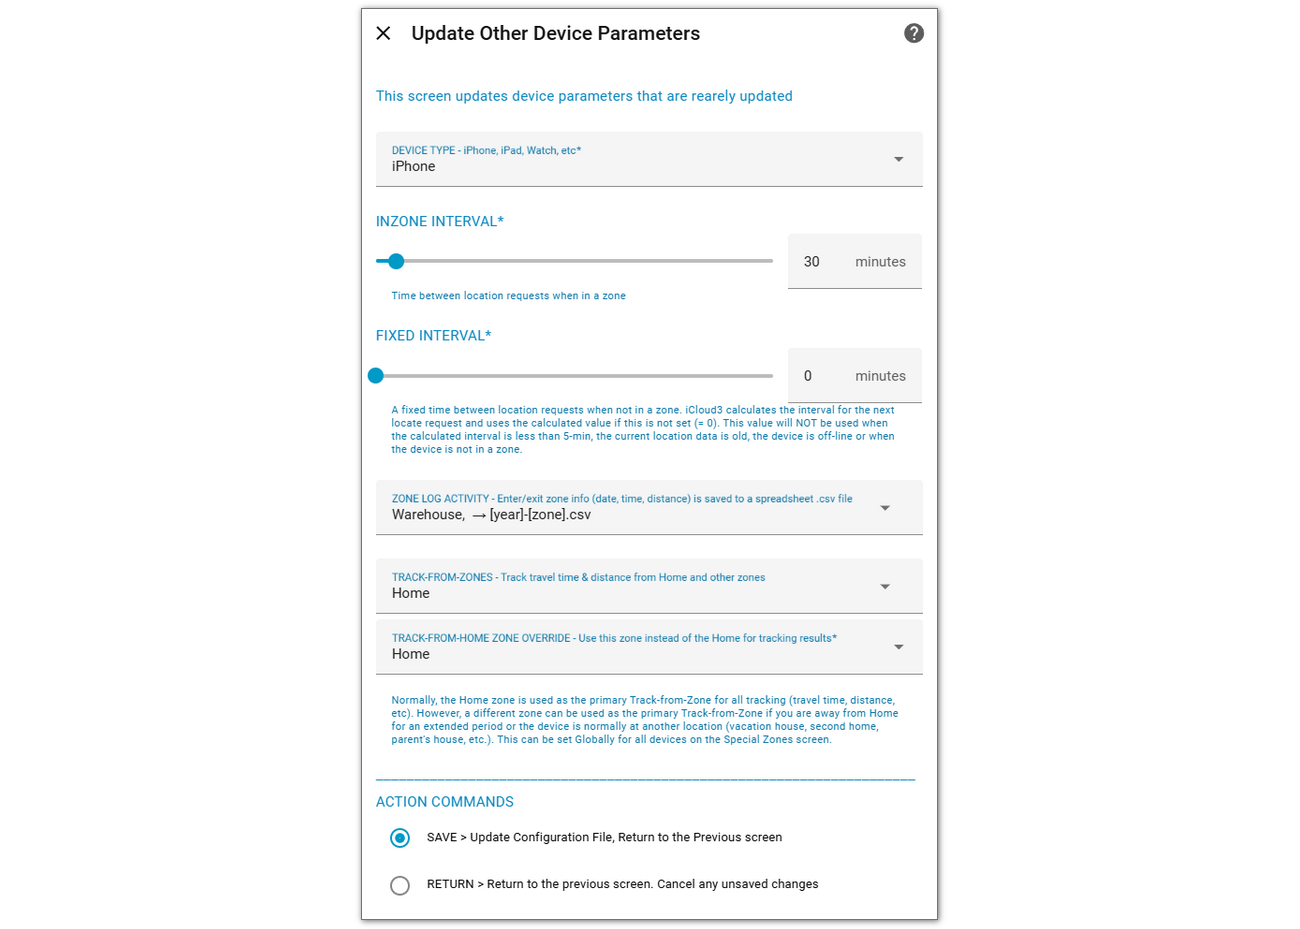
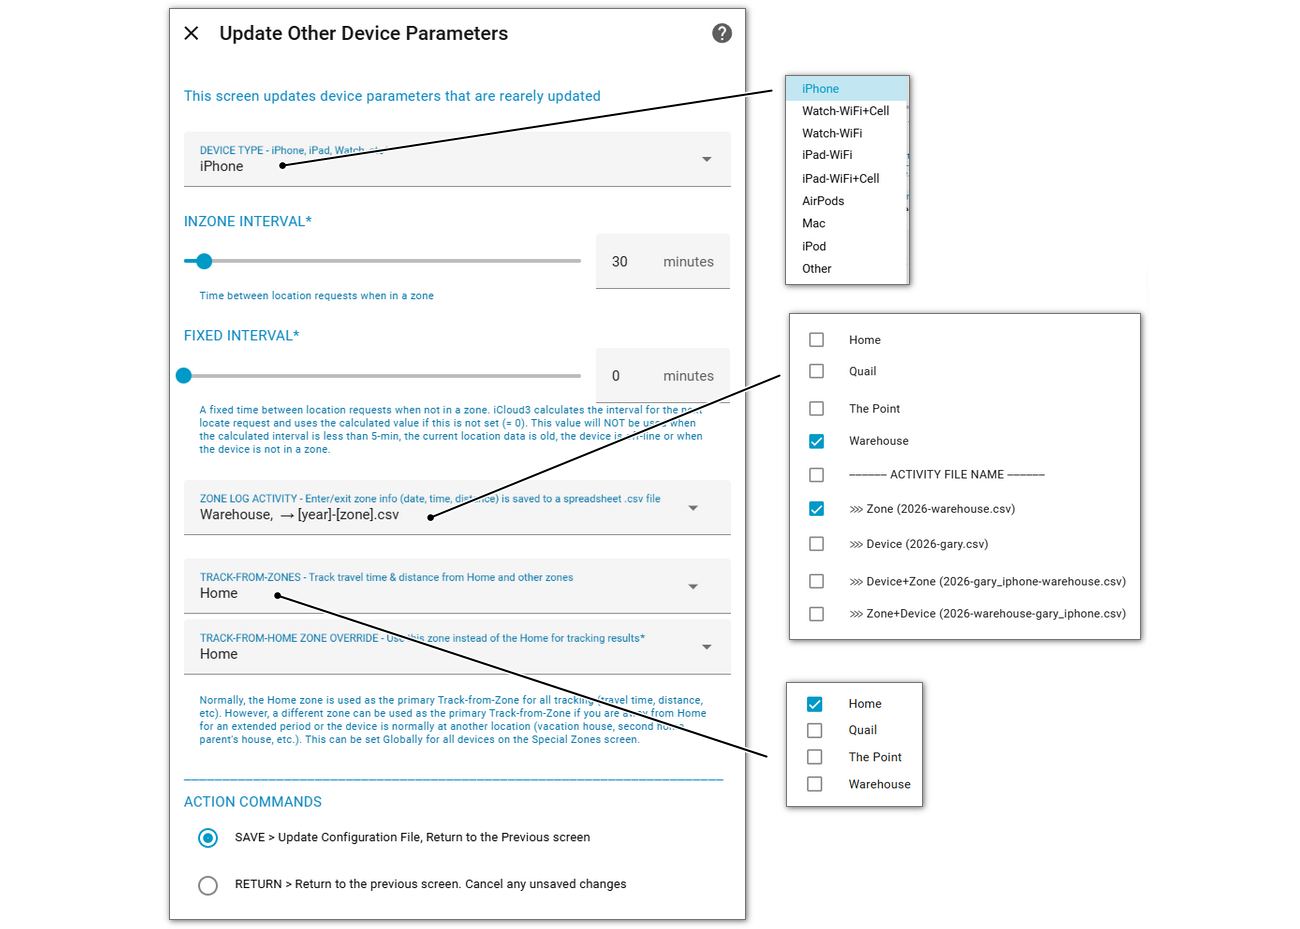
docs

Changed region(s): [[0.1231, 0.0, 0.8923, 0.9989], [0.1538, 0.1561, 0.4308, 0.1873], [0.1231, 0.718, 0.1538, 0.7492]]

diff --git a/docs/chapters/4_adv-feature-zone-log.md b/docs/chapters/4_adv-feature-zone-log.md
@@ -1,0 +1,43 @@
+# Zone Log for Expense Reports or Zone Tracking
+
+There may be times when you want to keep track of when a device enters and exits a zone. This is useful for:
+
+- **Expense Reporting** - Keep track of the times you are at a specific location when the miles driven are reimbursable.
+- **Tax deductions** - Keep track of the times you visit client locations when the miles driven are deductible on your taxes. 
+- **Zone Logging** - Keep track of when a person(s) visit a location or multiple locations.
+
+To do this:
+
+1. Set an HA Zone for the location on the *HA Settings > Areas & Zones > Zones* screen. 
+
+2. Add the zones to be tracked in the *Zone Log Activity* parameter on the *Update Other Devices Parameters* screen for every device you want to track. You can log more than one zone at the same time.
+
+   ![](..\images\zone-log-sel-list.png)
+
+   
+
+### Zone Log csv File and Spreadsheet
+
+The file name lets you select the way the data should be organized. The name contains the year, zone and devicename and is shown below. Select the one that best fits your situation:
+
+1. **By Zone** -`[year]-[zone].csv` - This lets you log multiple devices for the same zone. A record for every device is added to the same Zone file so you can see all of the Devices that were at a specific Zone.
+2. **By Device** -`[year]-[device].csv`  - This lets you log multiple zones for the same device. A record for every zone is added to the same Device file so you can see all of the Zones that were visited by a specific Device.
+3. **By Device-Zone** -`[year]-[device]-[zone].csv`  - A Device's activity is logged to a separate Zone file.
+4. **By Zone-Device** -`[year]-[zone]-[device].csv`  - Every Zone has a separate file for every Device.
+
+A *.csv* spreadsheet file is created in the */config* directory on your Home Assistant server. It is updated when the device leaves the zone with the following information:
+
+- Date
+- Date and time the zone was entered
+- Date and time the zone was exited from
+- Time in the zone (minutes and hours)
+- Distance from the Home zone
+- Zone name
+- Device entity name
+
+![](..\images\zone-log-csv-file.png)
+
+Importing this file into Excel provides various ways of sorting and summarizing this data.
+
+![](..\images\zone-log-spreadsheet.png)
+

diff --git a/docs/chapters/4_adv-feature-alerts-sensor.md b/docs/chapters/4_adv-feature-alerts-sensor.md
@@ -1,8 +1,6 @@
 # iCloud3 Alerts Sensor
 
-*Added in iCloud3 v3.2.3*
-
-Errors and Alerts are displayed in the Event log as they are found and summarized in a green bar at the top of the Event Log. They are prioritized in order of importance:
+Errors and Alerts are displayed in the Event log activity area and summarized in a green bar at the top. They are prioritized in order of importance:
 
 - Internet Connection Errors
 - Apple account authentication is needed
@@ -14,17 +12,17 @@ Errors and Alerts are displayed in the Event log as they are found and summarize
 
 ## *icloud3_alerts* Sensor
 
-Alert updates are also added to the *sensor.icloud3_alerts* entity. This sensor entity can be used to notify a device that an error or alert has occurred. 
+Alert updates are also added to the *sensor.icloud3_alerts* entity. This sensor can be used to notify a device that an error or alert has occurred. 
 
    - **State Value**: 
-        - *none* - No alerts are available
+        - *none* - No alerts have been encountered or previous alerts have been resolved
         - The highest priority alert
 
    - **Attributes**:
         - *alert_count* - Number of alerts (0 if no alerts are available)
         - *updated* - When the alert sensor was updated
         - *message_text* - A text summary of all errors that can be sent to a device using the notify.[devicename] Action.
-        - *yourappleacct@* - The Apple account that caused the alert
+        - *appleacct@* - The Apple account that caused the alert
         - *devicename* - The Device that caused the alert
 
 ![](..\images\icloud3-alerts-sensor.png)

diff --git a/docs/chapters/4_adv-feature-track-from-zone.md b/docs/chapters/4_adv-feature-track-from-zone.md
@@ -4,11 +4,11 @@ Normally, you track a device from the Home Zone. The sensor entities for travel 
 
 To track from another zone, select that zone in the *Track from Zones* parameter on the *Update Tracked iCloud3 Device* screen. 
 
-1. Select the *iCloud3 Devices* screen.
-2. Select the device to be tracked from the other zone.
-3. Select the *Track-from-Zones* field, then select the zones to be tracked from.
+1. Select the *iCloud3 Devices > Update Other Device Parameters* screen.
+2. Select the *Track-from-Zones* field, then select the zones to be tracked from.
+3. Then select *Save*, then *Submit*.
 
-![](..\images\cf-device-update-tfz.png)
+![](..\images\track-from-zones-sel-list.png)
 
 New sensors are created for all of the track-from-zones.
 
